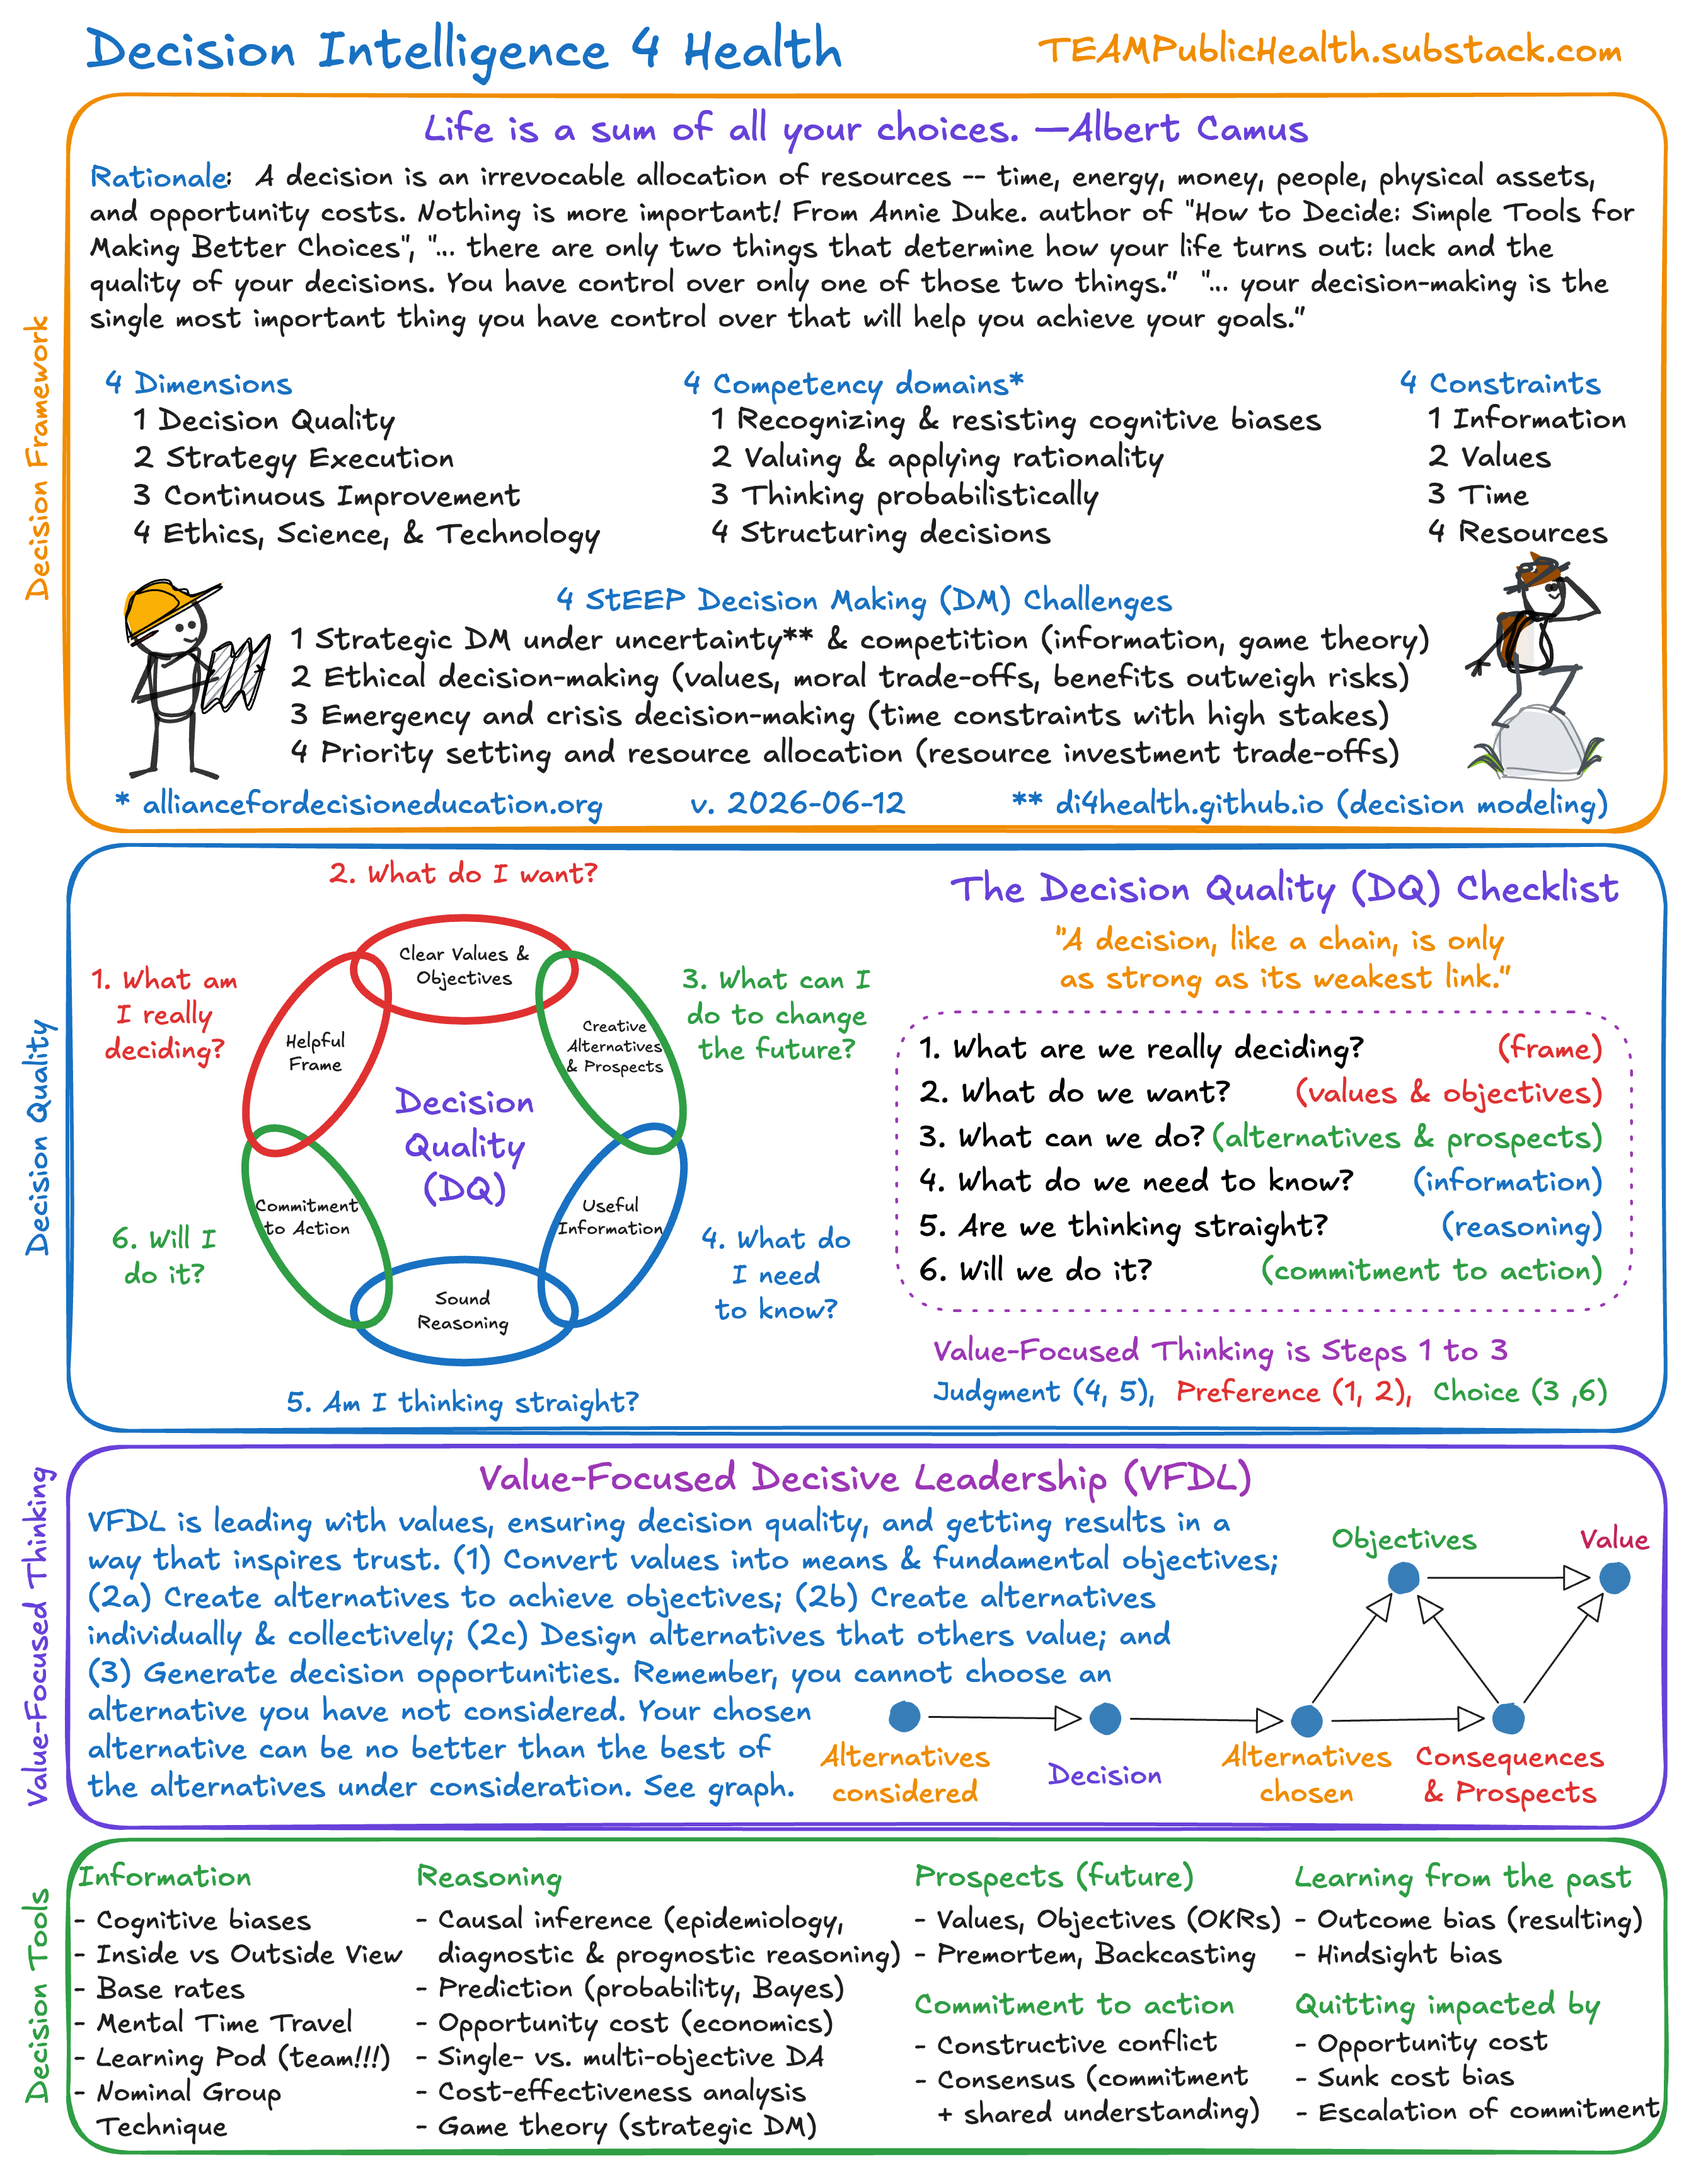
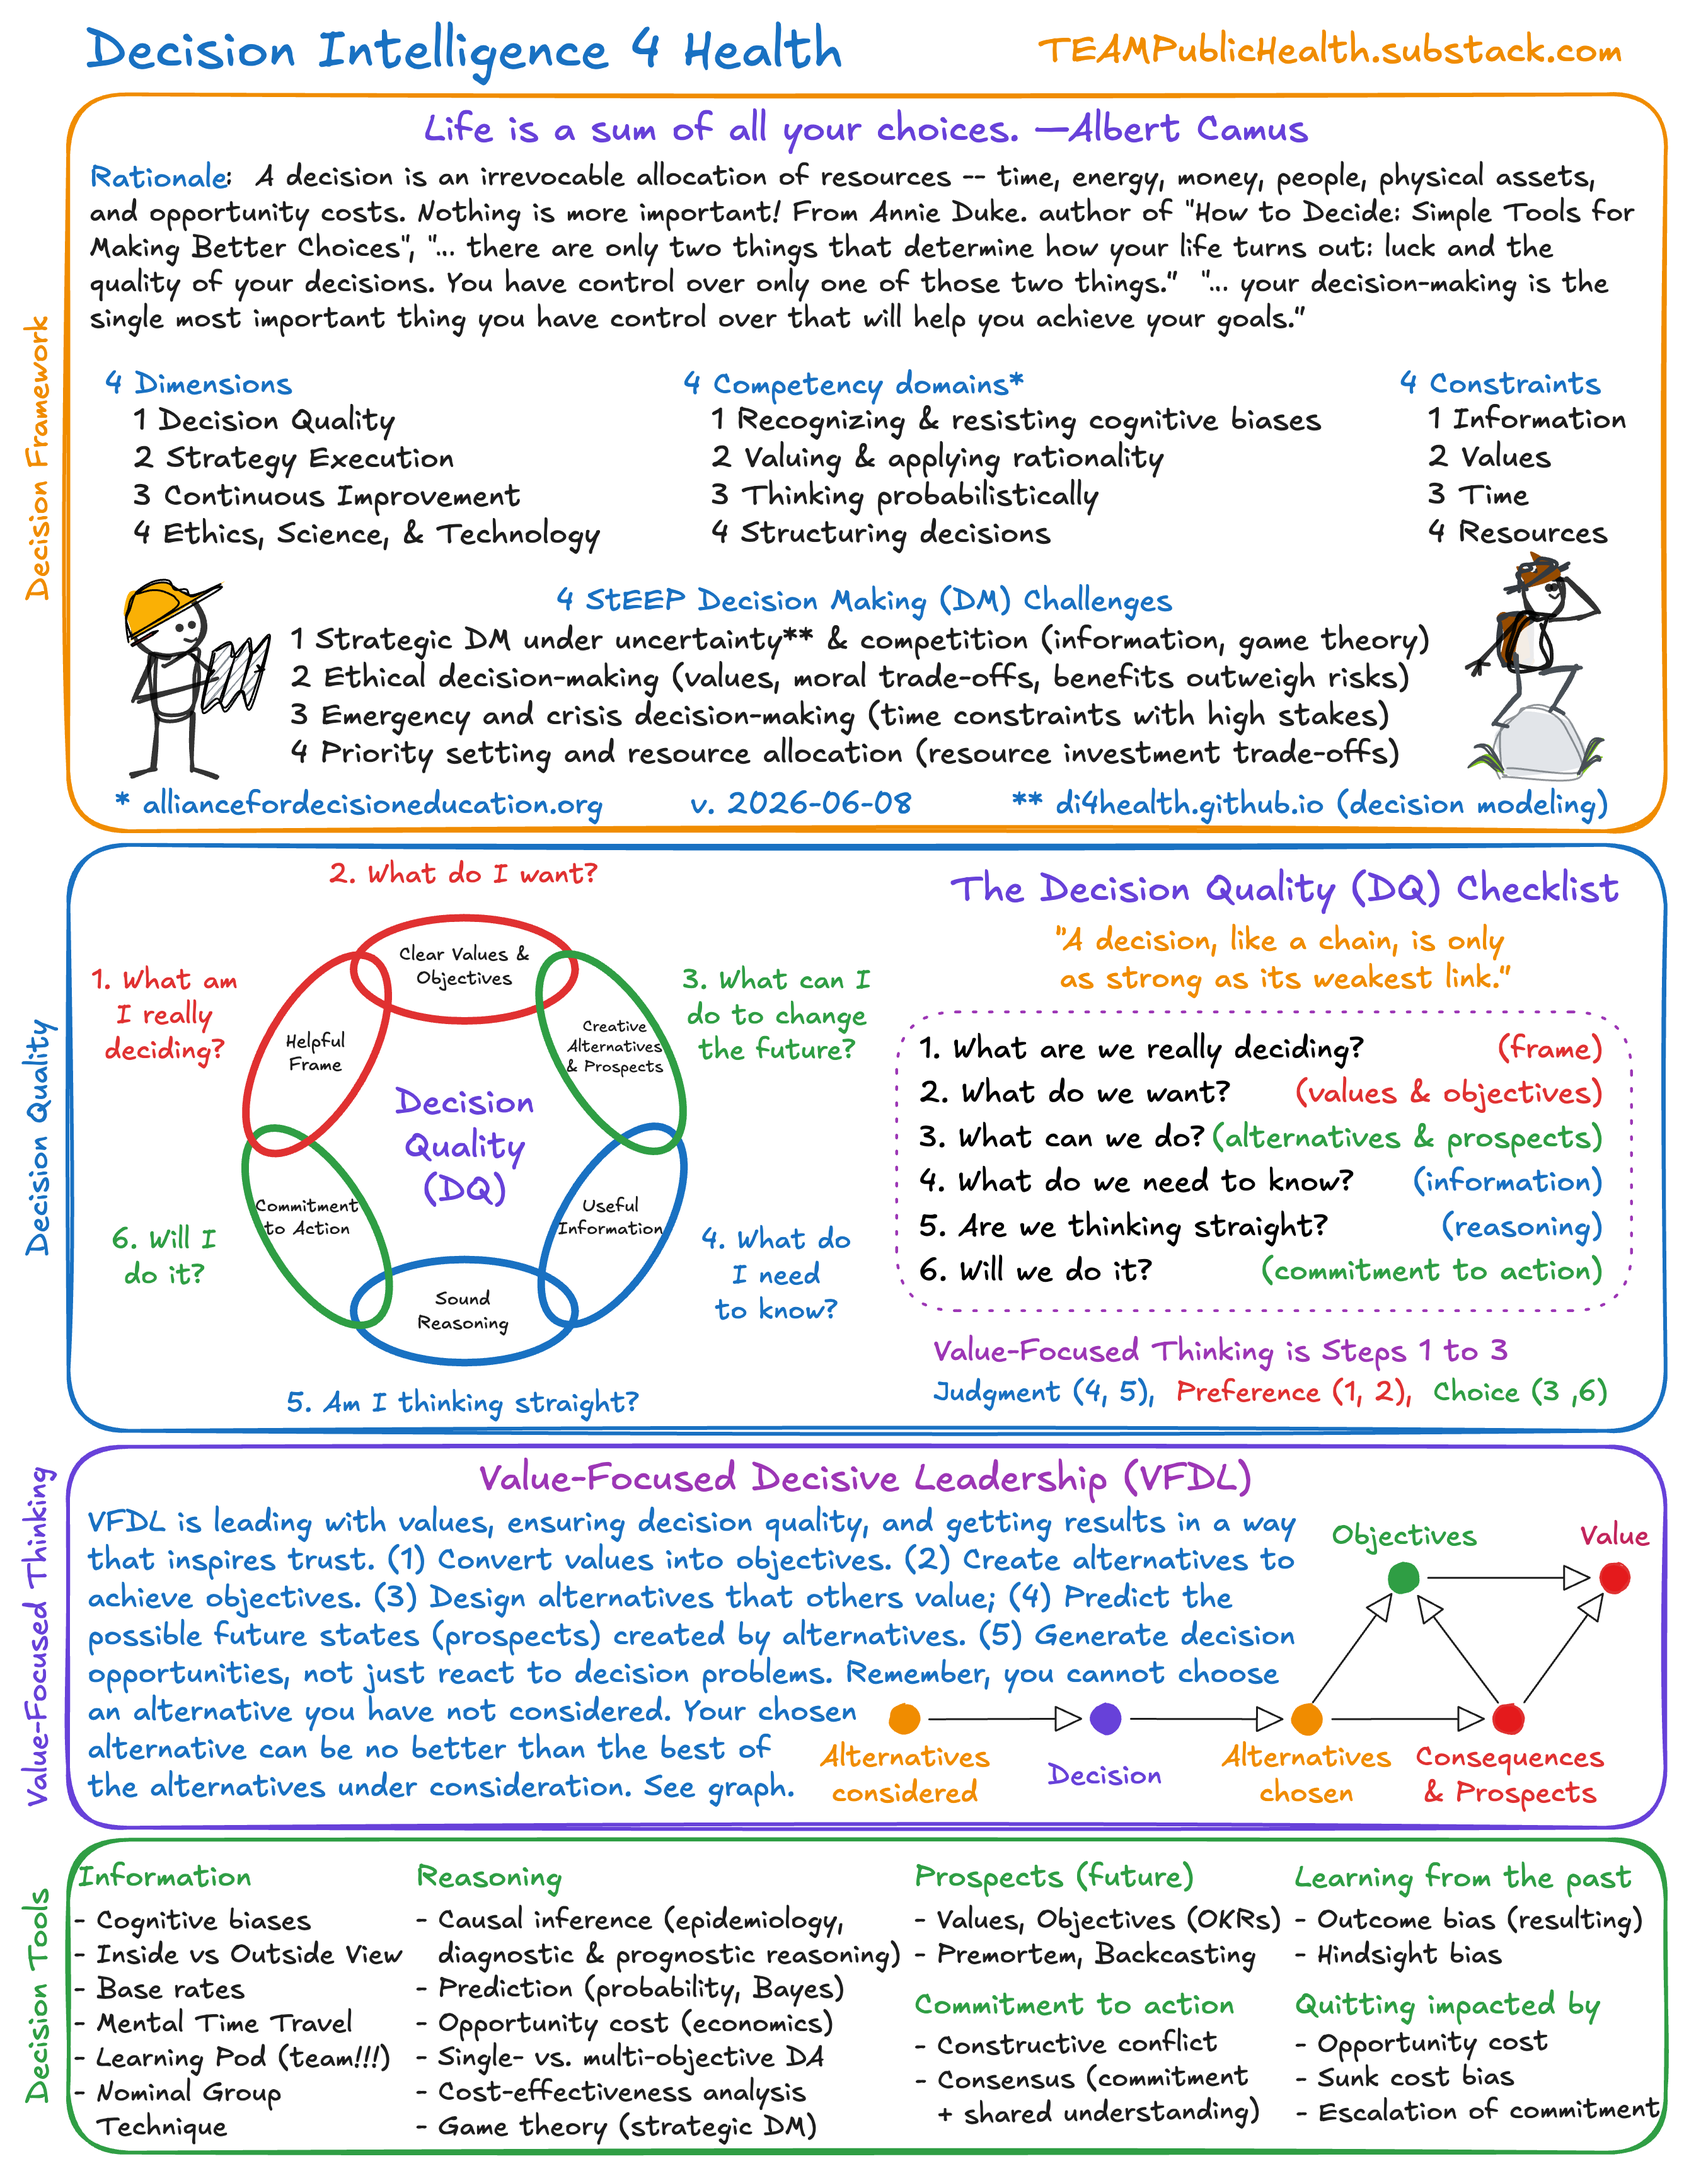
Update website 2026-06-08 16:46

diff --git a/docs/index.html b/docs/index.html
@@ -194,11 +194,11 @@ Figure&nbsp;1: Two dimensions of decision competence (Source: Parnell, Gregory S
 <li>4 constraints, and</li>
 <li>4 StEEP decision challenges.</li>
 </ol>
-<p>In health and human services, we face 4 <strong>StEEP</strong> decision challenges:</p>
+<p>In health and human services, we face 4 <strong>DEEP</strong> decision challenges:</p>
 <ol type="1">
-<li><strong>St</strong> — Strategic decision-making under uncertainty and competition (<strong>information</strong>, game theory)</li>
-<li><strong>E</strong> — Ethical decision-making (<strong>values</strong>, moral trade-offs, benefits outweigh risks)</li>
-<li><strong>E</strong> — Emergency and crisis decision-making (<strong>time</strong> constraints with high stakes)</li>
+<li><strong>St</strong> — Strategic Decision making under uncertainty and competition (<strong>information</strong>, game theory)</li>
+<li><strong>E</strong> — Ethical decision making (<strong>values</strong>, moral trade-offs, benefits outweigh risks)</li>
+<li><strong>E</strong> — Emergency and crisis decision making (<strong>time</strong> constraints with high stakes)</li>
 <li><strong>P</strong> — Priority setting and resource allocation (<strong>resource</strong> investment trade-offs)</li>
 </ol>
 <div id="fig-di4h" class="quarto-float quarto-figure quarto-figure-center anchored">
@@ -226,7 +226,7 @@ Figure&nbsp;2: Decision Intelligence 4 Health
 <li>Continuous improvement, and</li>
 <li>Ethics, science, and technology.</li>
 </ol>
-<p>In public health, strategic decisions rarely occur in isolation; they often occur within strategic execution frameworks (eg, incident command system, lean management, PDSA/A3 problem solving, needs-driven innovation, Results-Based Accountability). To ensure decision quality, we must deploy continuous improvement, ethics, science, and technology (eg, modeling, artificial intelligence)</p>
+<p>In public health, strategic decisions do not occur in isolation; they always occur within strategic execution frameworks (eg, incident command system, lean management, PDSA/A3 problem solving, needs-driven innovation, Results-Based Accountability). To ensure decision quality, we must deploy continuous improvement, ethics, science, and technology (eg, artificial intelligence)</p>
 <p>Finally, the <a href="https://alliancefordecisioneducation.org/">Alliance for Decision Eduction</a> has developed 4 evidence-based competency domains:</p>
 <ol type="1">
 <li>Recognizing and resisting cognitive biases,</li>
